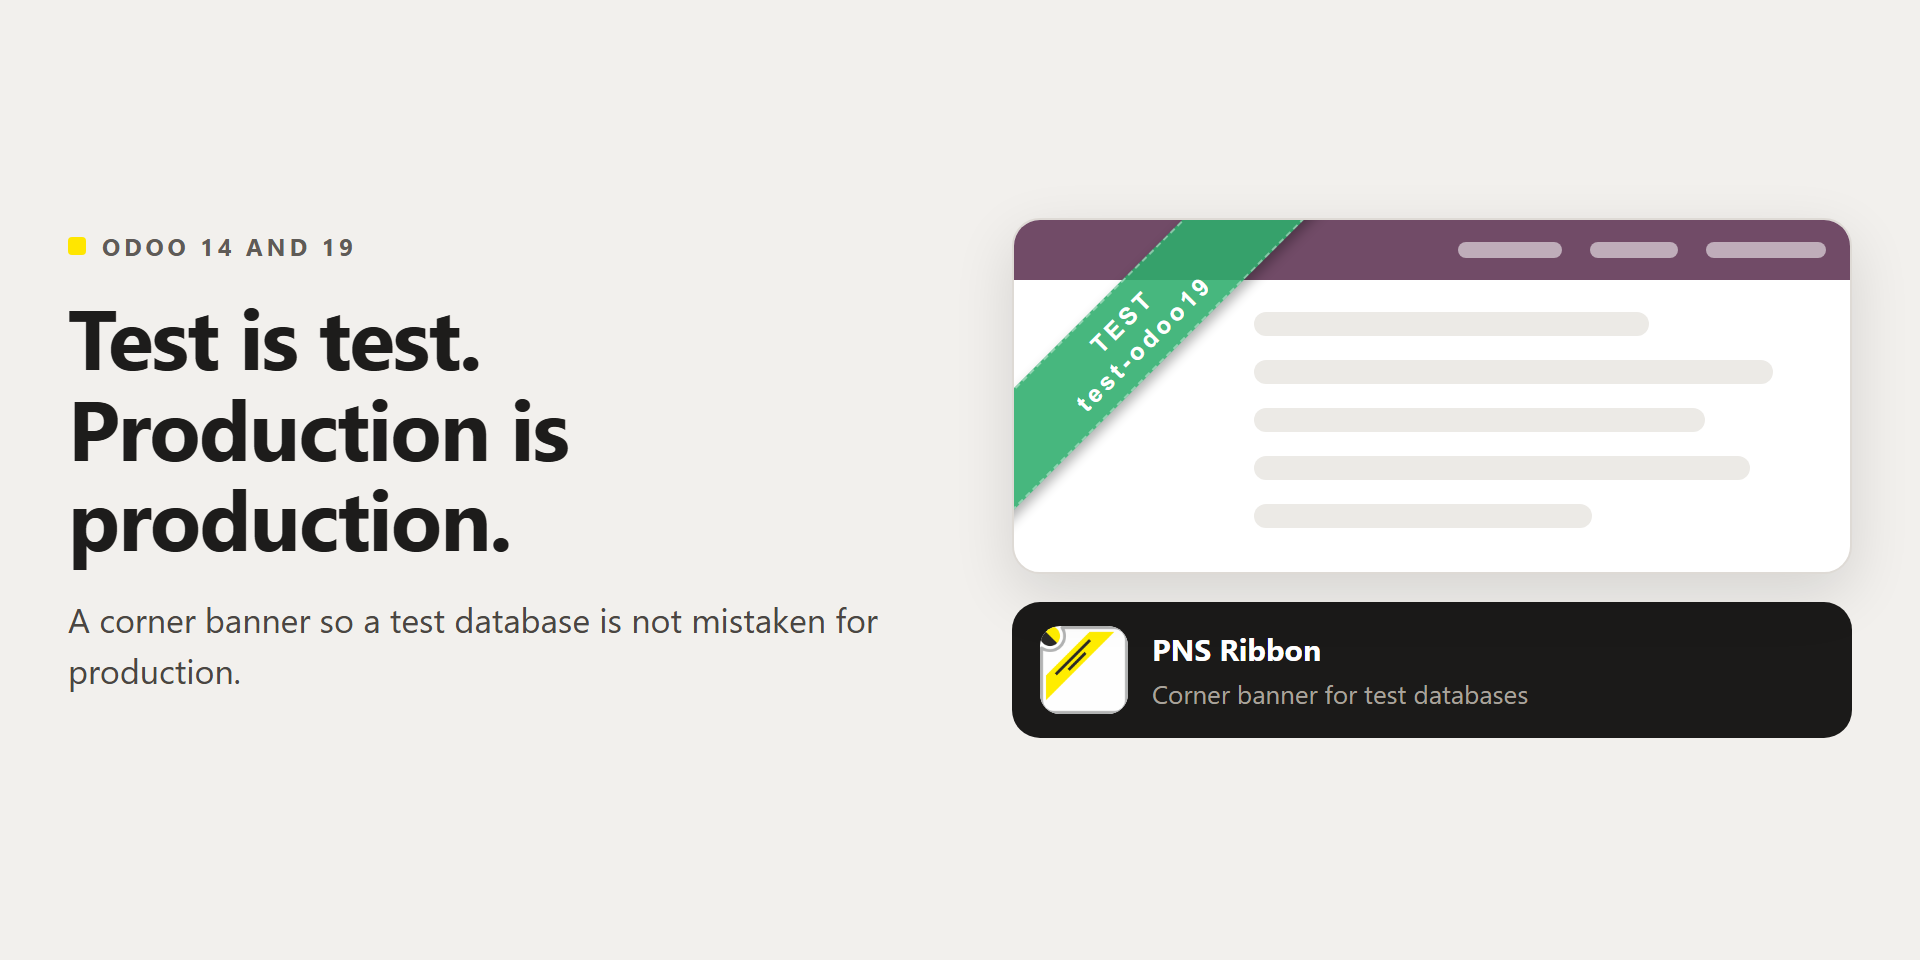
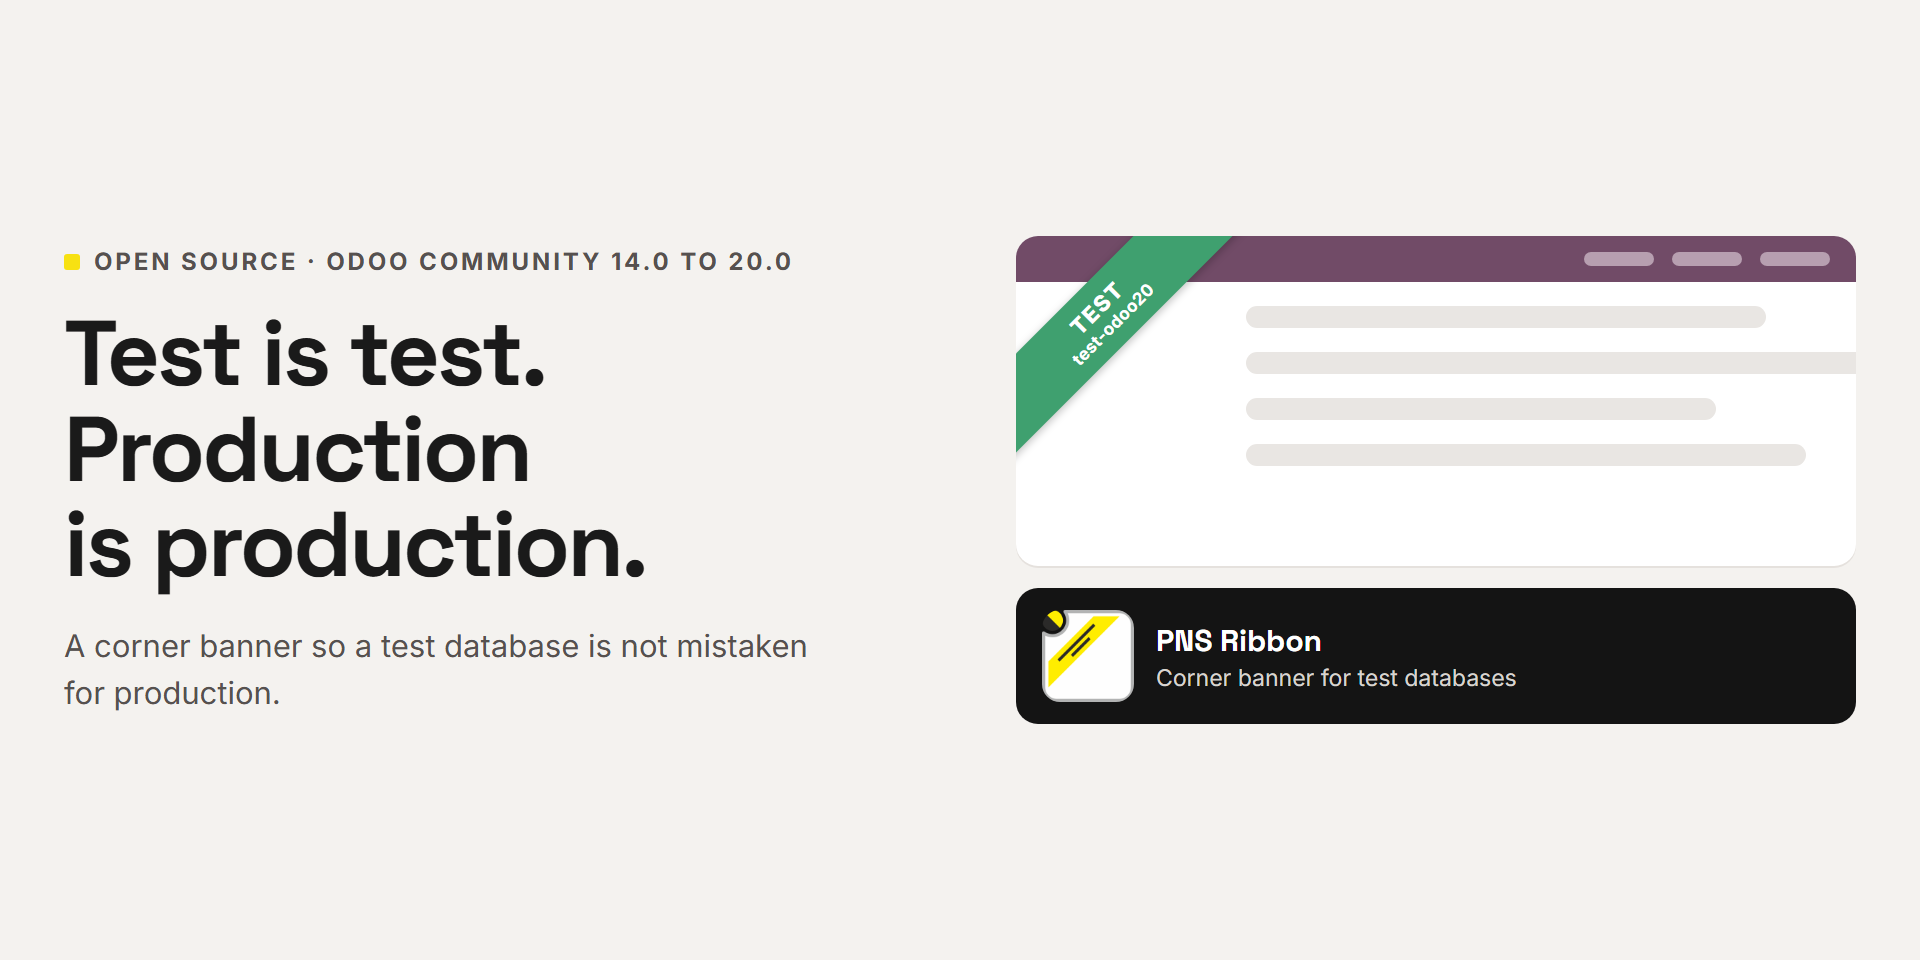
pns_ribbon owl1 1.0.17 · owl2 1.0.17 · owl3 1.0.17
- Banners (Apps store, README and site) show the seven supported series, 14.0 to 20.0; the old ones still said 14 and 19. Images only.

diff --git a/stacks/owl1/pns_ribbon/__manifest__.py b/stacks/owl1/pns_ribbon/__manifest__.py
@@ -5,7 +5,7 @@
 
 {
     'name': 'PNS Ribbon',
-    'version': '1.0.16',
+    'version': '1.0.17',
     'category': 'Web',
     'summary': 'Visual ribbon (TEST/DEV banner) to identify non-production instances.',
     'description': """

diff --git a/stacks/owl1/pns_ribbon/__manifest_o15__.py b/stacks/owl1/pns_ribbon/__manifest_o15__.py
@@ -8,7 +8,7 @@
 
 {
     'name': 'PNS Ribbon',
-    'version': '1.0.16',
+    'version': '1.0.17',
     'category': 'Web',
     'summary': 'Visual ribbon (TEST/DEV banner) to identify non-production instances.',
     'description': """

diff --git a/stacks/owl2/pns_ribbon/__manifest__.py b/stacks/owl2/pns_ribbon/__manifest__.py
@@ -5,7 +5,7 @@
 
 {
     'name': 'PNS Ribbon',
-    'version': '1.0.16',
+    'version': '1.0.17',
     'category': 'Web',
     'summary': 'Visual ribbon (TEST/DEV banner) to identify non-production instances.',
     'description': """

diff --git a/stacks/owl3/pns_ribbon/__manifest__.py b/stacks/owl3/pns_ribbon/__manifest__.py
@@ -5,7 +5,7 @@
 
 {
     'name': 'PNS Ribbon',
-    'version': '1.0.16',
+    'version': '1.0.17',
     'category': 'Web',
     'summary': 'Visual ribbon (TEST/DEV banner) to identify non-production instances.',
     'description': """

diff --git a/CHANGELOG.md b/CHANGELOG.md
@@ -2,6 +2,10 @@
 
 What changes for people who use this module, one section per published version, newest first. The heading is the git tag.
 
+## owl1-1.0.17_owl2-1.0.17_owl3-1.0.17 (2026-11-09)
+
+- Banners (Apps store, README and site) show the seven supported series, 14.0 to 20.0; the old ones still said 14 and 19. Images only.
+
 ## owl1-1.0.16_owl2-1.0.16_owl3-1.0.16 (2026-11-09)
 
 - Odoo 15, 16, 17, 18 and 20 join 14 and 19: every series from 14.0 to 20.0 is tested and has its own flat branch.
